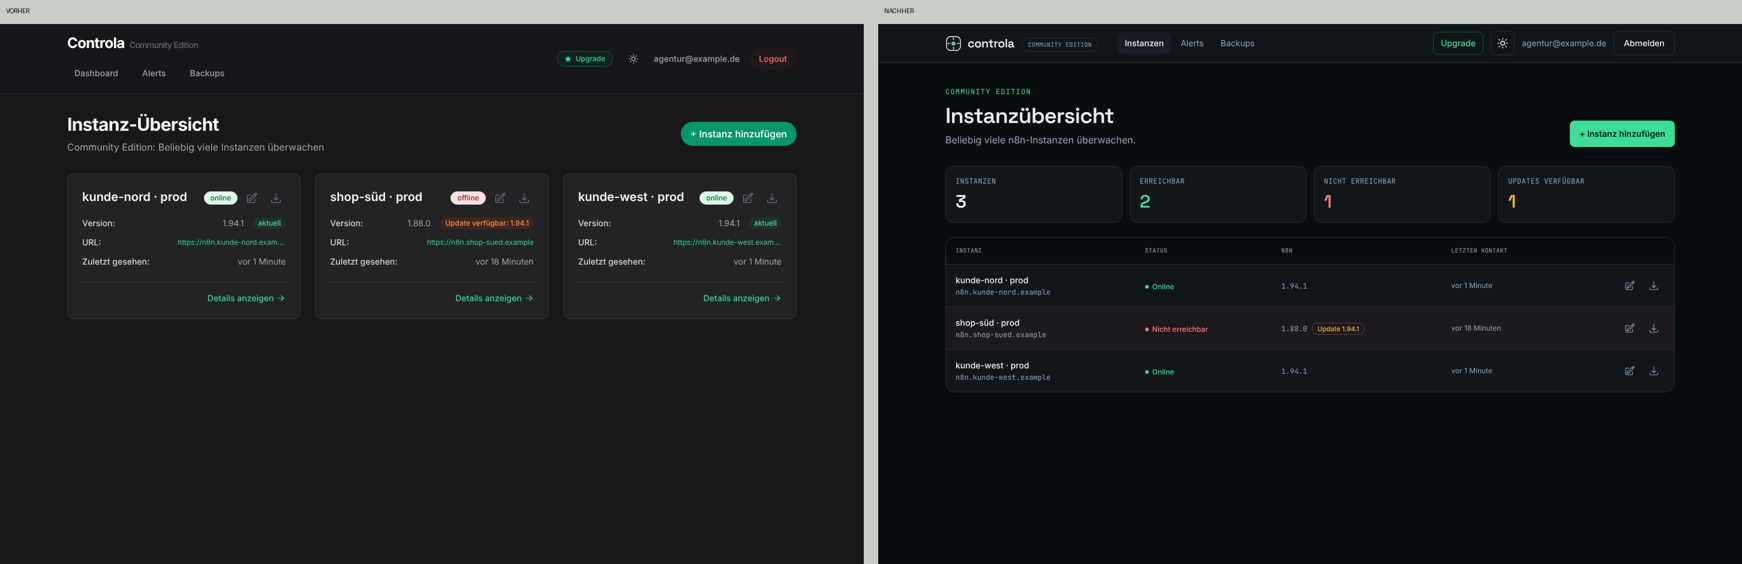
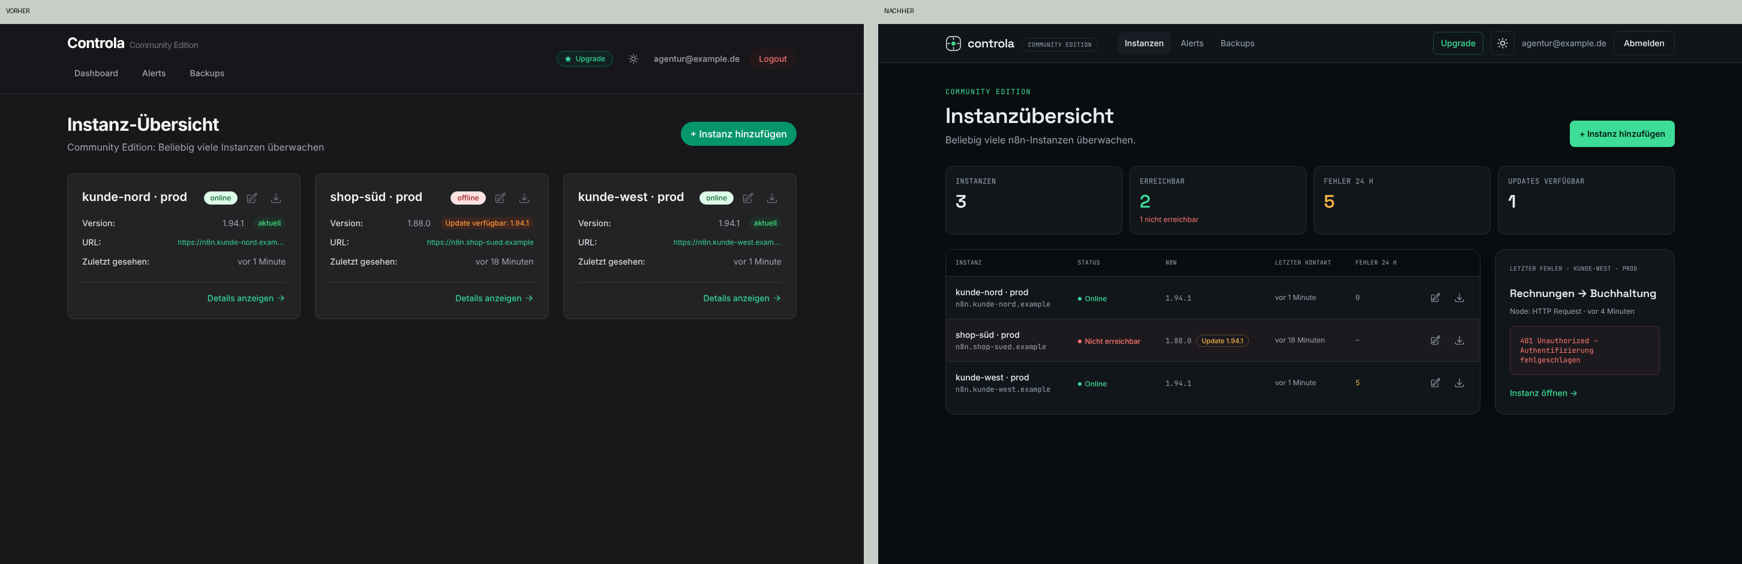
Frontend: Fehler 24 h und letzter Fehler in der Instanzübersicht
Nutzt den bestehenden Endpunkt /instances/{id}/error-patterns?range=1d
(CE und Premium) je erreichbarer Instanz und einen Event-Aufruf (limit=1)
für Node und Workflow des neuesten Fehlers. Keine Backend-Änderung.

Claude-Session: https://claude.ai/code/session_01J3Kdnm4NXWsfcv4yNnsdYJ

diff --git a/frontend/src/app/page.js b/frontend/src/app/page.js
@@ -1,7 +1,8 @@
 'use client';
 
-import { useQuery, useMutation, useQueryClient } from '@tanstack/react-query';
-import { getInstances, createInstance, updateInstance, exportInstanceWorkflows } from '@/lib/api';
+import { useQuery, useQueries, useMutation, useQueryClient } from '@tanstack/react-query';
+import { getInstances, createInstance, updateInstance, exportInstanceWorkflows, getInstanceErrorPatterns, getInstanceEvents } from '@/lib/api';
+import { summarizeErrorPatterns, formatErrorCount, pickLatestError } from '@/lib/dashboard/errorSummary';
 import { formatRelativeTime, getVersionUpdateState } from '@/lib/utils';
 import { useAuth } from '@/lib/auth/AuthContext';
 import { useLicense } from '@/lib/license/LicenseContext';
@@ -260,6 +261,45 @@ function EditInstanceModal({ isOpen, onClose, onSuccess, instance }) {
   );
 }
 
+function LatestErrorPanel({ latestError, event, loading }) {
+  return (
+    <aside className="rounded-2xl border border-border bg-card p-5 sm:p-6">
+      <p className="font-mono text-[10px] uppercase tracking-wide text-muted">
+        Letzter Fehler{latestError ? ` · ${latestError.instance.name}` : ''}
+      </p>
+      {loading && !latestError ? (
+        <div className="mt-5 space-y-3">
+          <Skeleton className="h-5 w-40" />
+          <Skeleton className="h-16 w-full" />
+        </div>
+      ) : !latestError ? (
+        <p className="mt-5 text-sm text-muted">Keine fehlgeschlagenen Ausführungen in den letzten 24 Stunden.</p>
+      ) : (
+        <>
+          <h3 className="mt-5 text-lg font-semibold text-foreground">
+            {event?.payload?.workflowName || latestError.latest.workflows[0] || 'Unbekannter Workflow'}
+          </h3>
+          <p className="mt-2 text-xs text-muted">
+            {event?.payload?.node ? `Node: ${event.payload.node} · ` : ''}
+            {formatRelativeTime(event?.occurredAt || latestError.latest.occurredAt)}
+          </p>
+          <div className="mt-4 rounded-lg border border-danger/20 bg-danger/5 p-4">
+            <p className="break-words font-mono text-xs text-danger">
+              {event?.payload?.errorMessage || latestError.latest.errorMessage}
+            </p>
+          </div>
+          <Link
+            href={`/instances/${latestError.instance.id}`}
+            className="mt-5 inline-flex text-sm font-medium text-primary hover:underline"
+          >
+            Instanz öffnen →
+          </Link>
+        </>
+      )}
+    </aside>
+  );
+}
+
 export default function Dashboard() {
   const { user, logout, isAuthenticated, isLoading: authLoading } = useAuth();
   const { license, maxInstances, isPremium, loading: licenseLoading, error: licenseError } = useLicense();
@@ -279,6 +319,34 @@ export default function Dashboard() {
     queryFn: getInstances,
     enabled: isAuthenticated,
   });
+
+  // Errors of the last 24 h per reachable instance, from the existing
+  // error-pattern endpoint (CE and Premium). Offline/locked instances stay unknown.
+  const reachable = (instances || []).filter((i) => i.status === 'online');
+  const errorQueries = useQueries({
+    queries: reachable.map((instance) => ({
+      queryKey: ['error-patterns', instance.id, '1d'],
+      queryFn: () => getInstanceErrorPatterns(instance.id, '1d'),
+      staleTime: 2 * 60 * 1000,
+      retry: false,
+    })),
+  });
+  const errorSummaries = {};
+  reachable.forEach((instance, index) => {
+    errorSummaries[instance.id] = summarizeErrorPatterns(errorQueries[index]?.data);
+  });
+  const errorsLoading = errorQueries.some((q) => q.isLoading);
+  const latestError = pickLatestError(reachable, errorSummaries);
+
+  // Node and workflow of that newest error (one event, same endpoint as the Fehler tab).
+  const { data: latestEvents } = useQuery({
+    queryKey: ['events', latestError?.instance.id, 'latest'],
+    queryFn: () => getInstanceEvents(latestError.instance.id, { type: 'WORKFLOW_ERROR', limit: 1 }),
+    enabled: !!latestError,
+    staleTime: 2 * 60 * 1000,
+    retry: false,
+  });
+  const latestEvent = latestEvents?.[0];
 
   const handleExport = async (e, instanceId) => {
     e.preventDefault();
@@ -342,11 +410,23 @@ export default function Dashboard() {
   const onlineCount = list.filter((i) => i.status === 'online').length;
   const offlineCount = list.filter((i) => i.status === 'offline').length;
   const updateCount = list.filter((i) => getVersionUpdateState(i.version, i.latestVersion) === 'update-available').length;
+  const knownErrorCounts = Object.values(errorSummaries).filter((e) => e.count !== null);
+  const errorTotal = knownErrorCounts.reduce((sum, e) => sum + e.count, 0);
+  const errorCapped = knownErrorCounts.some((e) => e.capped);
   const stats = [
     { label: 'Instanzen', value: list.length, tone: '' },
-    { label: 'Erreichbar', value: onlineCount, tone: 'text-primary' },
-    { label: 'Nicht erreichbar', value: offlineCount, tone: offlineCount > 0 ? 'text-danger' : '' },
-    { label: 'Updates verfügbar', value: updateCount, tone: updateCount > 0 ? 'text-warning' : '' },
+    {
+      label: 'Erreichbar',
+      value: onlineCount,
+      tone: 'text-primary',
+      hint: offlineCount > 0 ? `${offlineCount} nicht erreichbar` : null,
+    },
+    {
+      label: 'Fehler 24 h',
+      value: errorsLoading && knownErrorCounts.length === 0 ? '…' : `${errorTotal}${errorCapped ? '+' : ''}`,
+      tone: errorTotal > 0 ? 'text-warning' : '',
+    },
+    { label: 'Updates verfügbar', value: updateCount, tone: '' },
   ];
 
   const editButton = (instance) => (
@@ -455,16 +535,18 @@ export default function Dashboard() {
               <div key={stat.label} className="rounded-xl border border-border bg-card p-4">
                 <p className="font-mono text-[10px] uppercase tracking-wide text-muted sm:text-xs">{stat.label}</p>
                 <p className={`mt-2 font-display text-3xl font-semibold ${stat.tone || 'text-foreground'}`}>{stat.value}</p>
+                {stat.hint && <p className="mt-1 text-xs text-danger">{stat.hint}</p>}
               </div>
             ))}
           </div>
 
-          <div className="overflow-hidden rounded-2xl border border-border bg-card shadow-panel">
+          <div className="grid gap-6 lg:grid-cols-[minmax(0,1fr)_300px]">
+          <div className="min-w-0 overflow-hidden rounded-2xl border border-border bg-card shadow-panel">
             <table className="hidden w-full text-left text-sm md:table">
               <caption className="sr-only">Verbundene n8n-Instanzen</caption>
               <thead className="border-b border-border bg-background font-mono text-[10px] uppercase tracking-wide text-muted">
                 <tr>
-                  {['Instanz', 'Status', 'n8n', 'Letzter Kontakt'].map((label) => (
+                  {['Instanz', 'Status', 'n8n', 'Letzter Kontakt', 'Fehler 24 h'].map((label) => (
                     <th key={label} scope="col" className="px-4 py-3 font-normal">{label}</th>
                   ))}
                   <th scope="col" className="px-4 py-3 font-normal text-right"><span className="sr-only">Aktionen</span></th>
@@ -499,6 +581,9 @@ export default function Dashboard() {
                         <VersionBadge version={instance.version} latestVersion={instance.latestVersion} />
                       </td>
                       <td className="px-4 py-4 text-xs text-muted">{formatRelativeTime(instance.lastSeenAt)}</td>
+                      <td className={`px-4 py-4 font-mono text-xs ${errorSummaries[instance.id]?.count ? 'text-warning' : 'text-muted'}`}>
+                        {formatErrorCount(errorSummaries[instance.id])}
+                      </td>
                       <td className="px-4 py-2 text-right">
                         <div className="inline-flex items-center gap-1">
                           {editButton(instance)}
@@ -522,6 +607,7 @@ export default function Dashboard() {
                       <StatusLabel status={instance.status} />
                       <span className="font-mono text-muted">n8n {instance.version || '–'}</span>
                       <span className="text-muted">{formatRelativeTime(instance.lastSeenAt)}</span>
+                      <span className="text-muted">Fehler 24 h: {formatErrorCount(errorSummaries[instance.id])}</span>
                     </div>
                   </div>
                   <div className="flex shrink-0 items-center">
@@ -531,6 +617,8 @@ export default function Dashboard() {
                 </li>
               ))}
             </ul>
+          </div>
+          <LatestErrorPanel latestError={latestError} event={latestEvent} loading={errorsLoading} />
           </div>
         </>
       )}

diff --git a/frontend/src/lib/dashboard/errorSummary.ts b/frontend/src/lib/dashboard/errorSummary.ts
@@ -1,0 +1,49 @@
+import type { ErrorPattern } from '../api';
+
+/**
+ * The error-pattern endpoint aggregates at most this many failed executions
+ * (n8n API page size with execution data). A sum at the cap means "at least".
+ */
+export const ERROR_PATTERN_CAP = 100;
+
+export interface InstanceErrorSummary {
+  /** Failed executions in the window; null when unknown (not loaded, offline, failed). */
+  count: number | null;
+  /** True when the count reached the endpoint's cap and may be higher. */
+  capped: boolean;
+  /** Most recent error in the window, if any. */
+  latest: { errorMessage: string; occurredAt: string; workflows: string[] } | null;
+}
+
+export function summarizeErrorPatterns(patterns: ErrorPattern[] | undefined | null): InstanceErrorSummary {
+  if (!patterns) return { count: null, capped: false, latest: null };
+  let count = 0;
+  let latest: InstanceErrorSummary['latest'] = null;
+  for (const p of patterns) {
+    count += p.count;
+    if (!latest || new Date(p.lastOccurred).getTime() > new Date(latest.occurredAt).getTime()) {
+      latest = { errorMessage: p.errorMessage, occurredAt: p.lastOccurred, workflows: p.affectedWorkflows.filter(Boolean) };
+    }
+  }
+  return { count, capped: count >= ERROR_PATTERN_CAP, latest };
+}
+
+export function formatErrorCount(summary: InstanceErrorSummary | undefined): string {
+  if (!summary || summary.count === null) return '–';
+  return summary.capped ? `${ERROR_PATTERN_CAP}+` : String(summary.count);
+}
+
+/** Instance whose most recent error is the newest across all summaries. */
+export function pickLatestError<T extends { id: string }>(
+  instances: T[],
+  summaries: Record<string, InstanceErrorSummary>,
+): { instance: T; latest: NonNullable<InstanceErrorSummary['latest']> } | null {
+  let best: { instance: T; latest: NonNullable<InstanceErrorSummary['latest']> } | null = null;
+  for (const instance of instances) {
+    const latest = summaries[instance.id]?.latest;
+    if (latest && (!best || new Date(latest.occurredAt) > new Date(best.latest.occurredAt))) {
+      best = { instance, latest };
+    }
+  }
+  return best;
+}

diff --git a/frontend/src/lib/dashboard/errorSummary.test.ts b/frontend/src/lib/dashboard/errorSummary.test.ts
@@ -1,0 +1,45 @@
+import { describe, expect, it } from 'vitest';
+import { formatErrorCount, pickLatestError, summarizeErrorPatterns } from './errorSummary';
+
+const p = (errorMessage: string, count: number, lastOccurred: string, affectedWorkflows = ['WF']) => ({
+  errorMessage, count, lastOccurred, affectedWorkflows,
+});
+
+describe('summarizeErrorPatterns', () => {
+  it('sums counts and keeps the newest error', () => {
+    const s = summarizeErrorPatterns([
+      p('401 Unauthorized', 3, '2026-11-13T10:00:00Z', ['Rechnungen']),
+      p('Timeout', 2, '2026-11-13T12:00:00Z', ['Leads']),
+    ]);
+    expect(s.count).toBe(5);
+    expect(s.capped).toBe(false);
+    expect(s.latest).toEqual({ errorMessage: 'Timeout', occurredAt: '2026-11-13T12:00:00Z', workflows: ['Leads'] });
+  });
+
+  it('marks the endpoint cap as a lower bound', () => {
+    const s = summarizeErrorPatterns([p('x', 100, '2026-11-13T10:00:00Z')]);
+    expect(formatErrorCount(s)).toBe('100+');
+  });
+
+  it('treats missing data as unknown, not zero', () => {
+    expect(formatErrorCount(summarizeErrorPatterns(undefined))).toBe('–');
+    expect(formatErrorCount(summarizeErrorPatterns([]))).toBe('0');
+  });
+});
+
+describe('pickLatestError', () => {
+  it('returns the instance with the newest error', () => {
+    const summaries = {
+      a: summarizeErrorPatterns([p('A', 1, '2026-11-13T09:00:00Z')]),
+      b: summarizeErrorPatterns([p('B', 1, '2026-11-13T11:00:00Z')]),
+      c: summarizeErrorPatterns([]),
+    };
+    const best = pickLatestError([{ id: 'a' }, { id: 'b' }, { id: 'c' }], summaries);
+    expect(best?.instance.id).toBe('b');
+    expect(best?.latest.errorMessage).toBe('B');
+  });
+
+  it('returns null without errors', () => {
+    expect(pickLatestError([{ id: 'a' }], { a: summarizeErrorPatterns([]) })).toBeNull();
+  });
+});
